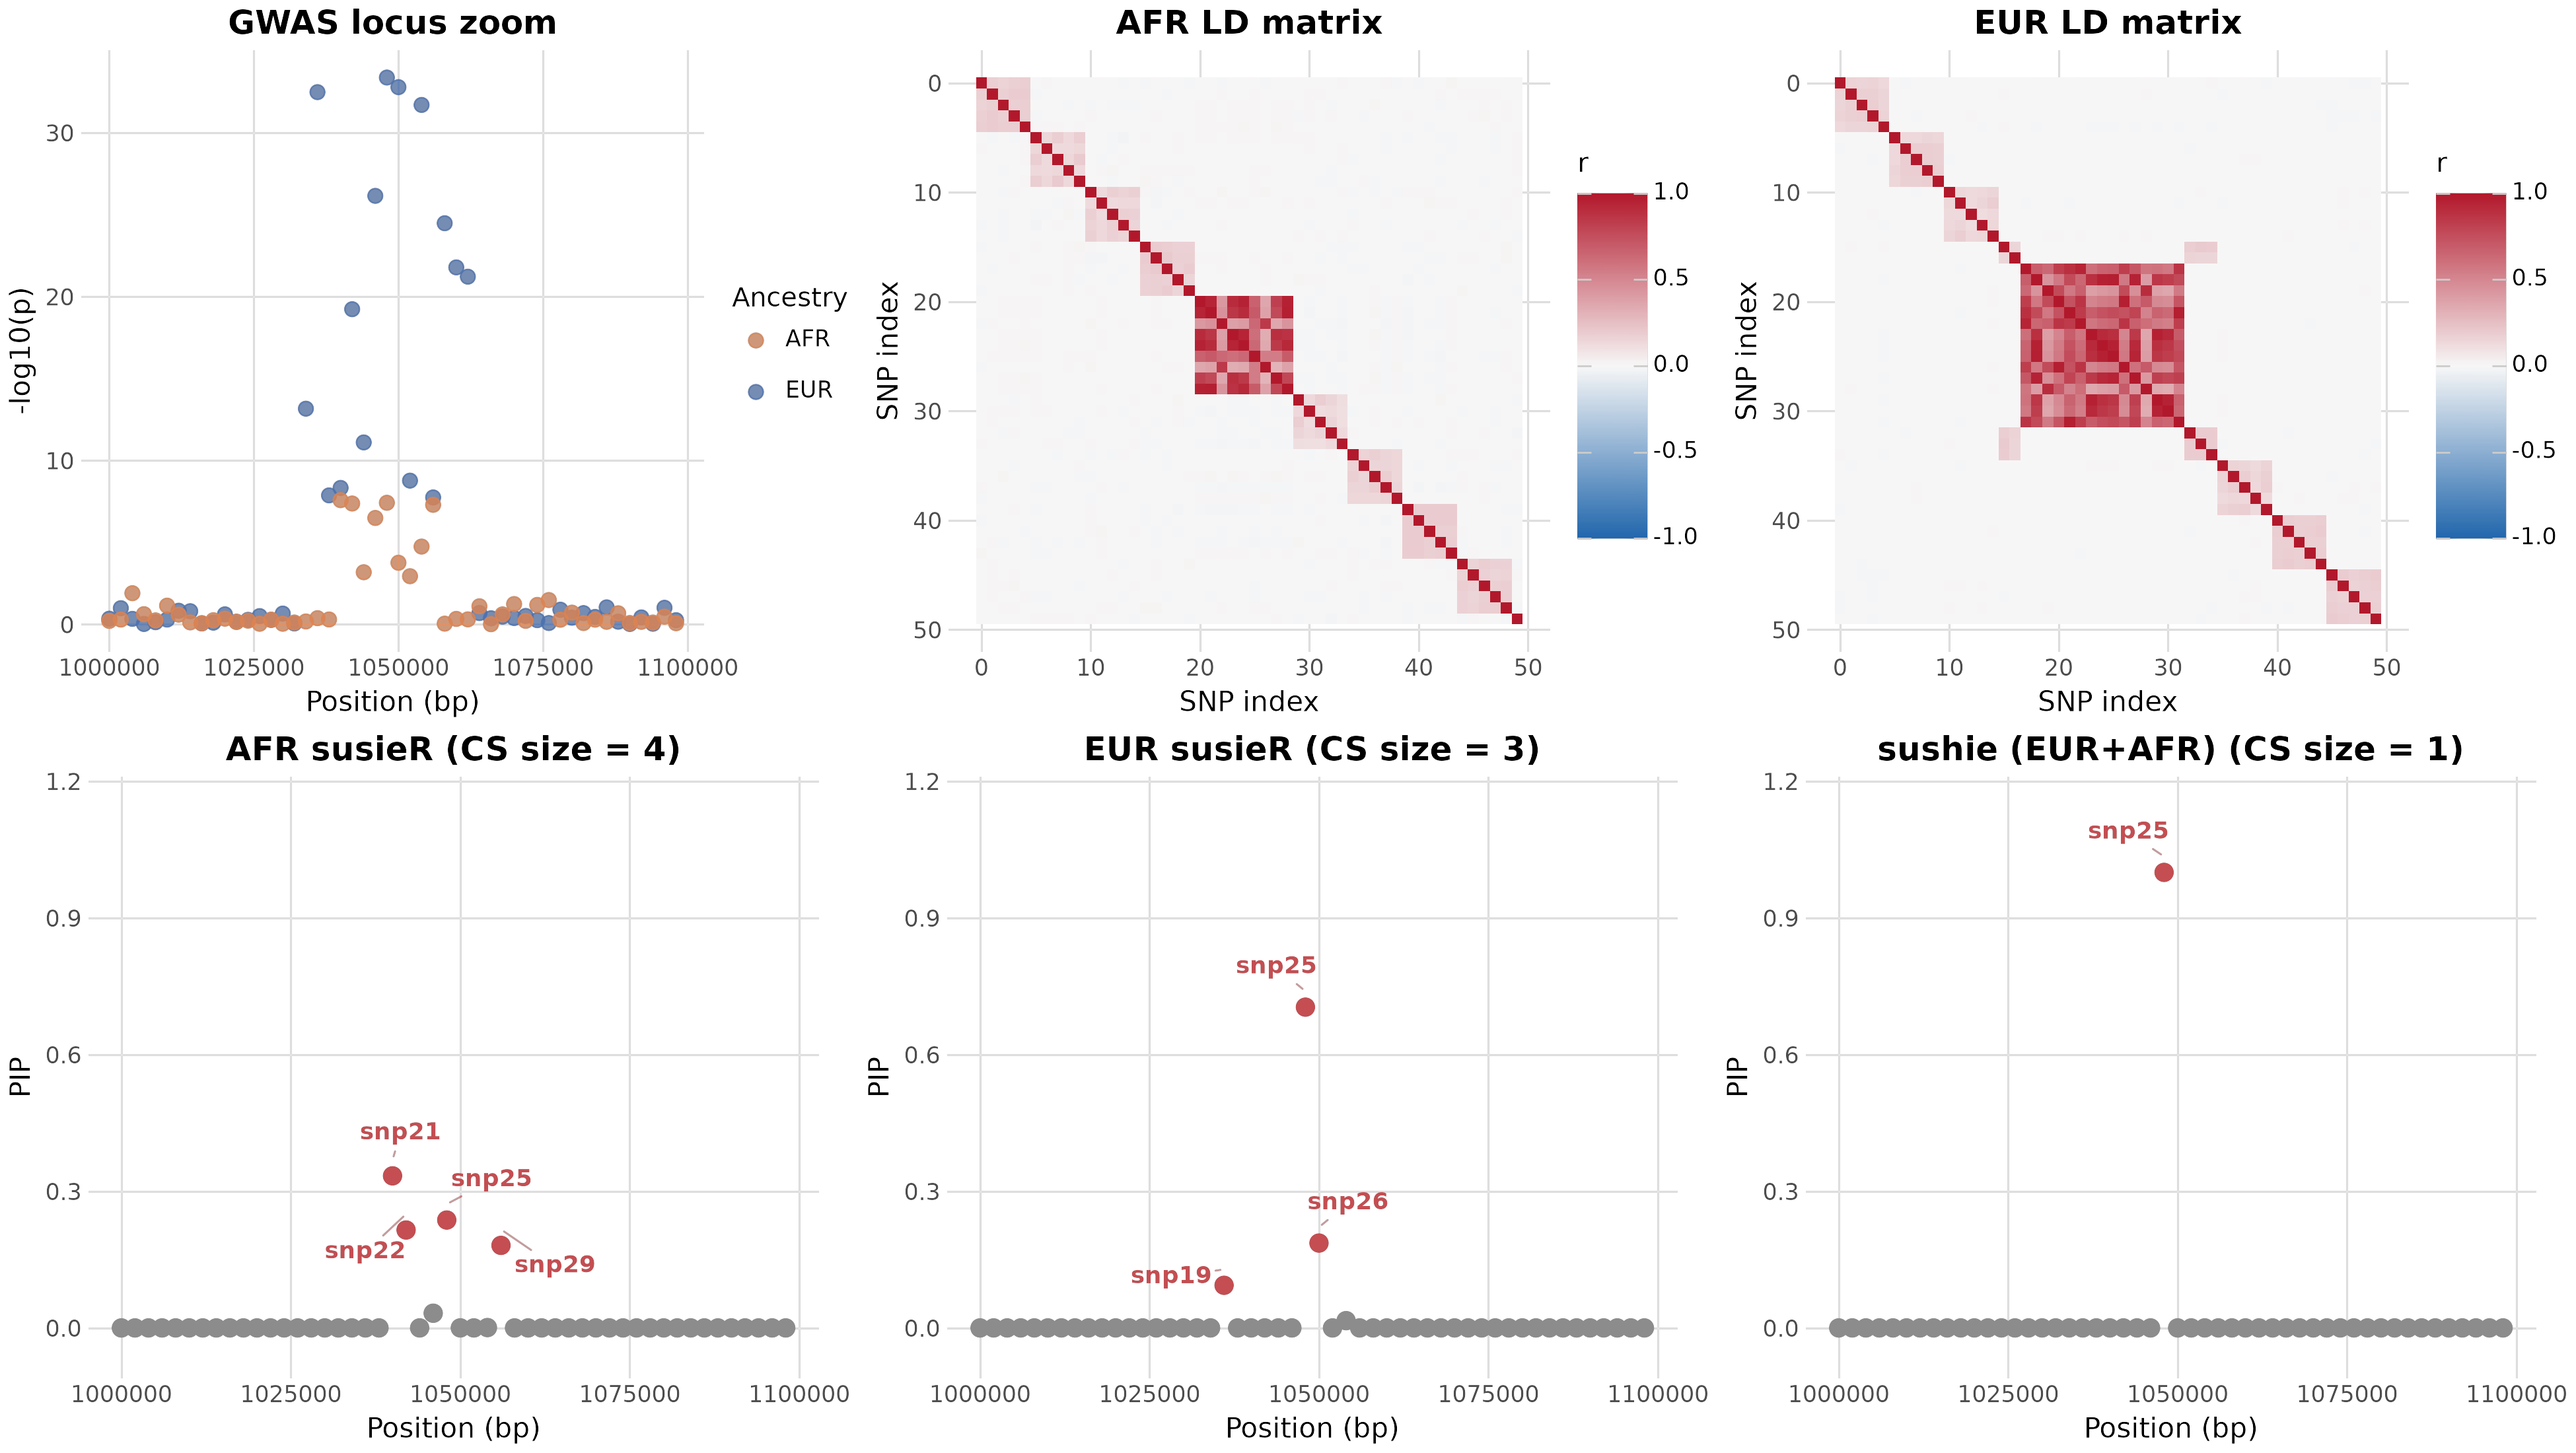
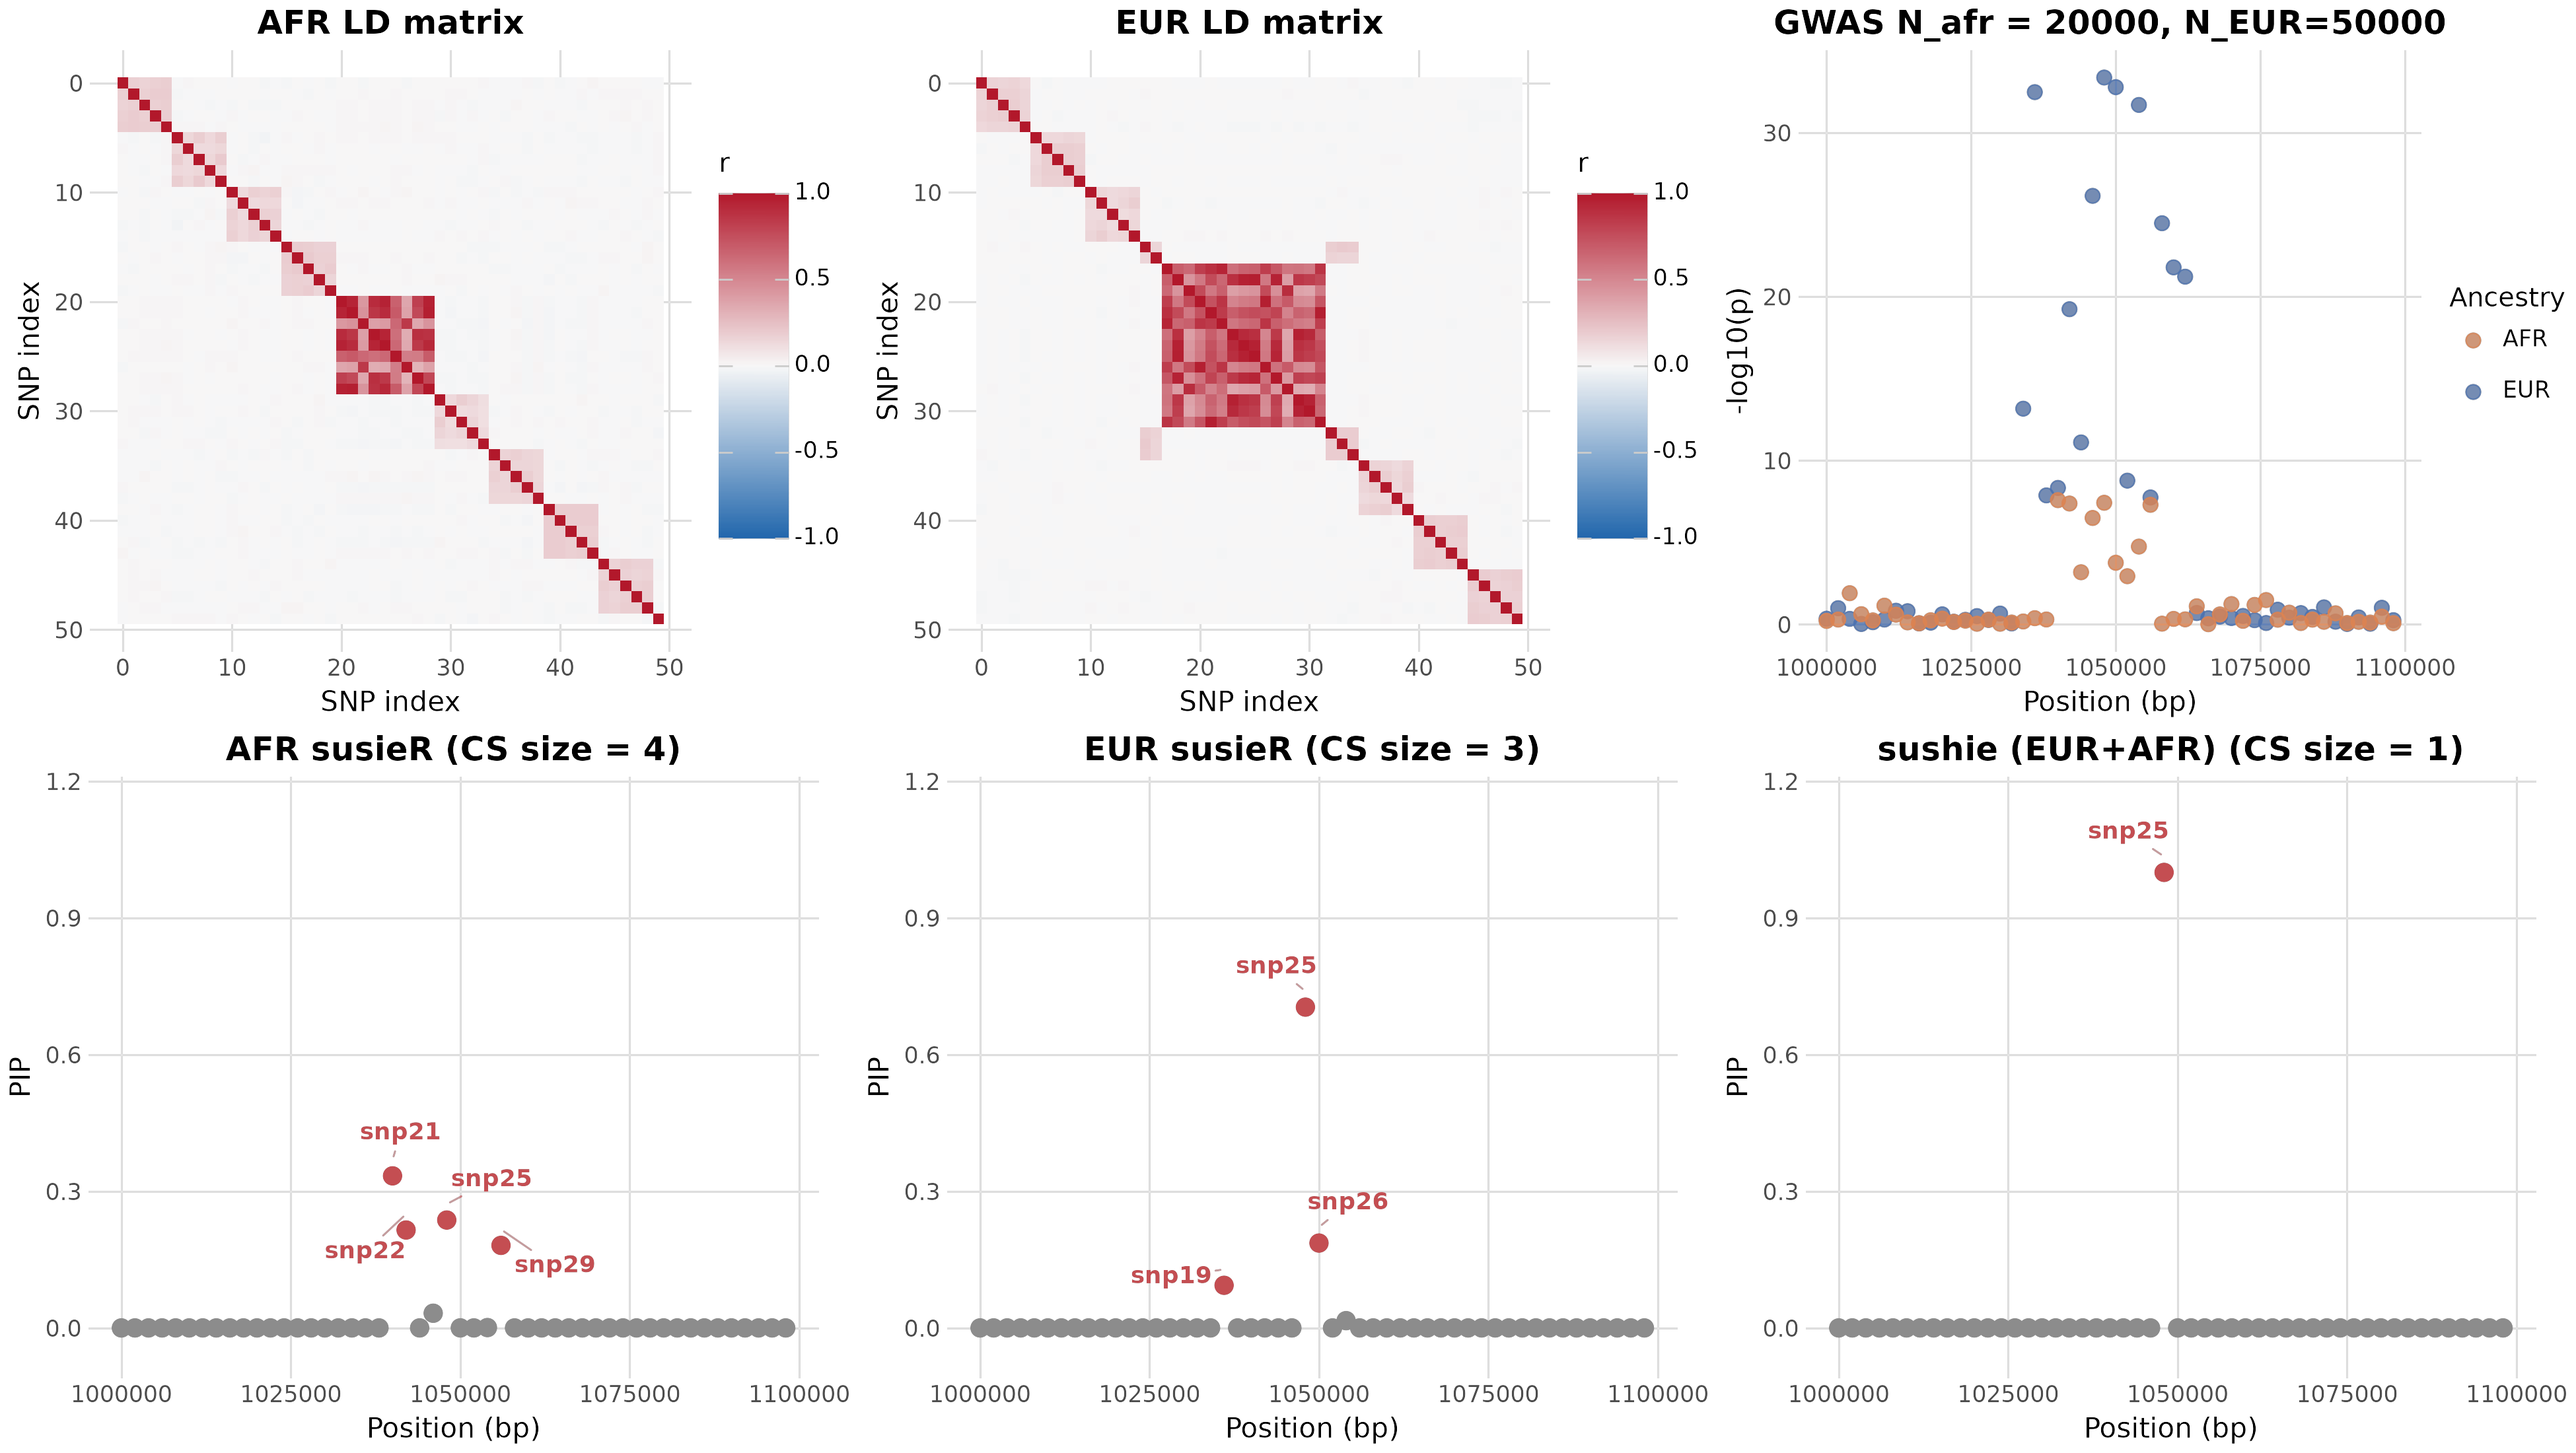
Reorder summary figure panels; show sample sizes in GWAS panel title

diff --git a/example/scripts/plot_results.py b/example/scripts/plot_results.py
@@ -24,6 +24,8 @@ from plotnine import (
     ylim,
 )
 
+from simulate import N_AFR, N_EUR
+
 RESULTS_DIR = Path(__file__).resolve().parent.parent / "results"
 DATA_DIR = Path(__file__).resolve().parent.parent / "data"
 
@@ -129,7 +131,7 @@ def compose_grid(panels, output_path, rows=GRID_ROWS, cols=GRID_COLS):
     canvas.save(output_path)
 
 
-def build_locus_zoom_panel(eur_gwas, afr_gwas):
+def build_locus_zoom_panel(eur_gwas, afr_gwas, n_eur, n_afr):
     eur = eur_gwas.assign(ancestry="EUR", neglog10p=-np.log10(eur_gwas["pval"]))
     afr = afr_gwas.assign(ancestry="AFR", neglog10p=-np.log10(afr_gwas["pval"]))
     long_df = pd.concat([eur, afr], ignore_index=True)
@@ -137,7 +139,7 @@ def build_locus_zoom_panel(eur_gwas, afr_gwas):
         ggplot(long_df, aes(x="pos", y="neglog10p", color="ancestry"))
         + geom_point(size=4, alpha=0.85)
         + scale_color_manual(values={"EUR": "#4C72B0", "AFR": "#DD8452"}, name="Ancestry")
-        + labs(x="Position (bp)", y="-log10(p)", title="GWAS locus zoom")
+        + labs(x="Position (bp)", y="-log10(p)", title=f"GWAS N_afr = {n_afr}, N_EUR={n_eur}")
         + theme_presentation(legend_position="right")
     )
     return plot, None
@@ -194,9 +196,9 @@ def plot_summary_figure():
     sushie = load_sushie_weights(RESULTS_DIR / "locus1.sushie.weights.tsv")
 
     panels = [
-        build_locus_zoom_panel(eur_gwas, afr_gwas),
         build_ld_panel(afr_ld, "AFR LD matrix"),
         build_ld_panel(eur_ld, "EUR LD matrix"),
+        build_locus_zoom_panel(eur_gwas, afr_gwas, n_eur=N_EUR, n_afr=N_AFR),
         build_pip_panel(afr_cs, "AFR susieR"),
         build_pip_panel(eur_cs, "EUR susieR"),
         build_pip_panel(sushie, "sushie (EUR+AFR)"),
